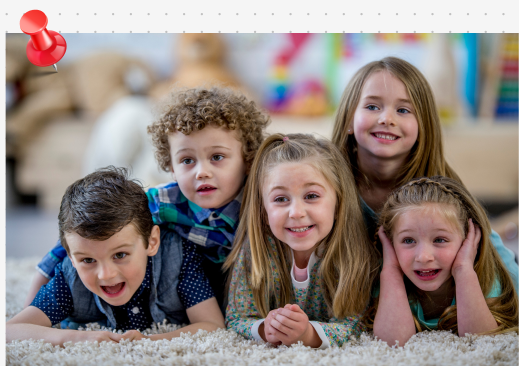
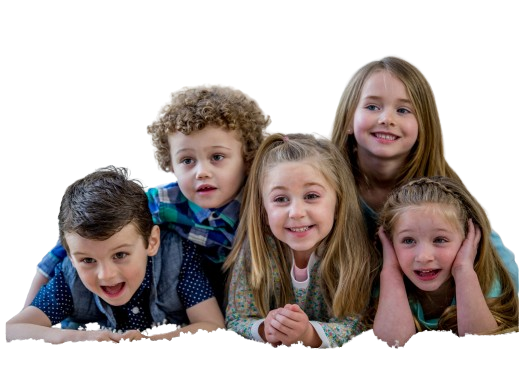
Added new files

diff --git a/src/pages/AboutPage.jsx b/src/pages/AboutPage.jsx
@@ -18,9 +18,9 @@ function AboutPage() {
 
                 {/* Main Image */}
                 <div className="md:w-1/3 flex justify-center">
-                    <div className="mt-5 md:mt-12 w-[150px] h-[150px] md:w-[280px] md:h-[280px] rounded-full overflow-hidden">
+                    <div className="mt-5 md:mt-12 w-[200px] h-[200px] md:w-[600px] md:h-[300px] ">
                         <img
-                            src="distributor.jpg"
+                            src="/AboutPage/KidsGroup.png"
                             alt="FruitRush Ice Pops"
                             className="w-full h-full object-cover transform transition duration-300 ease-in-out hover:scale-110"
                         />
